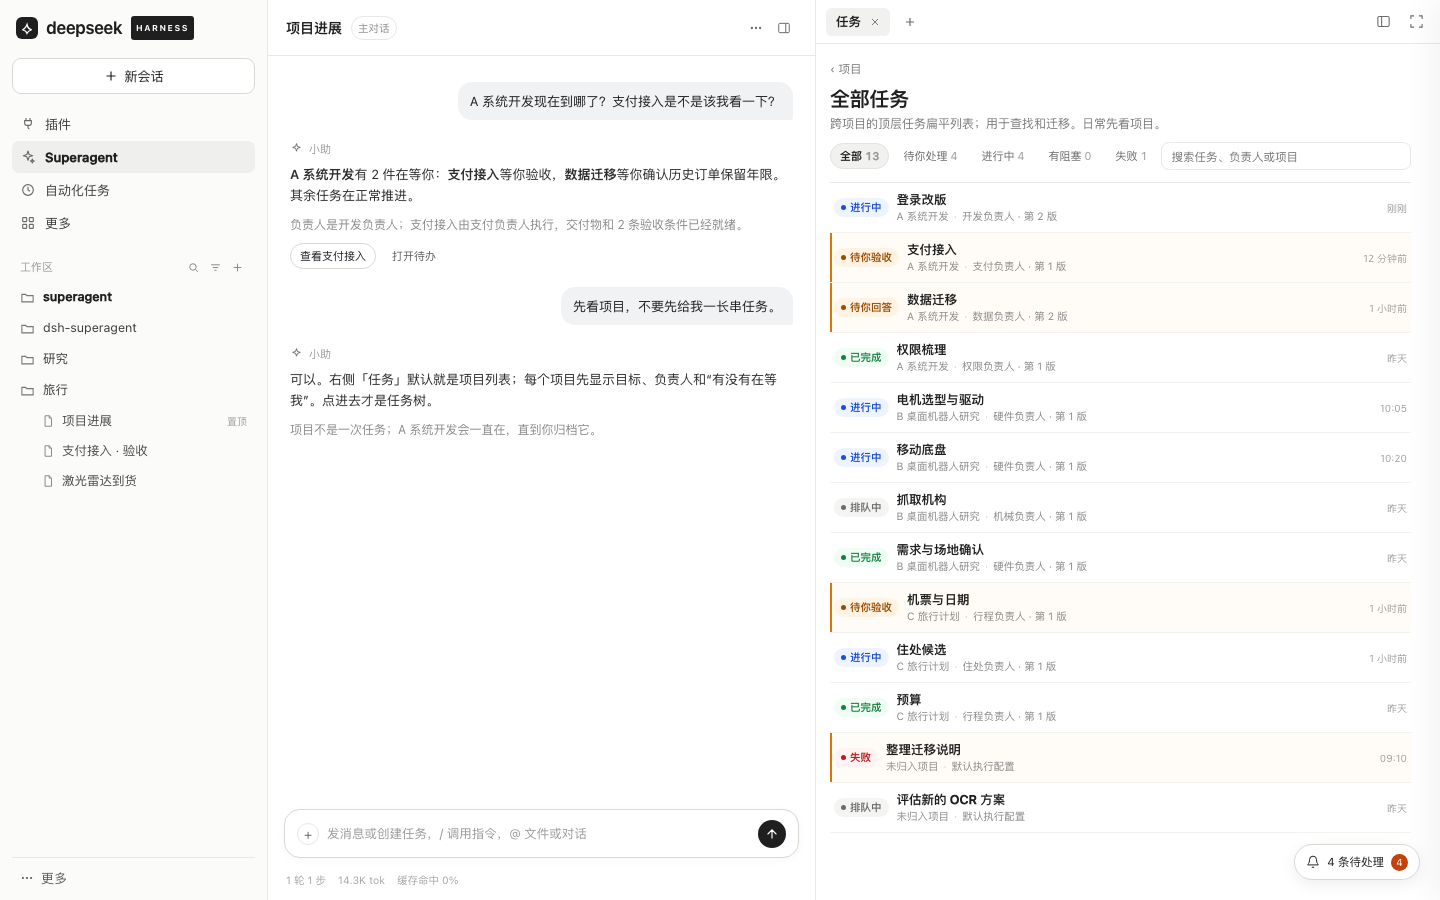
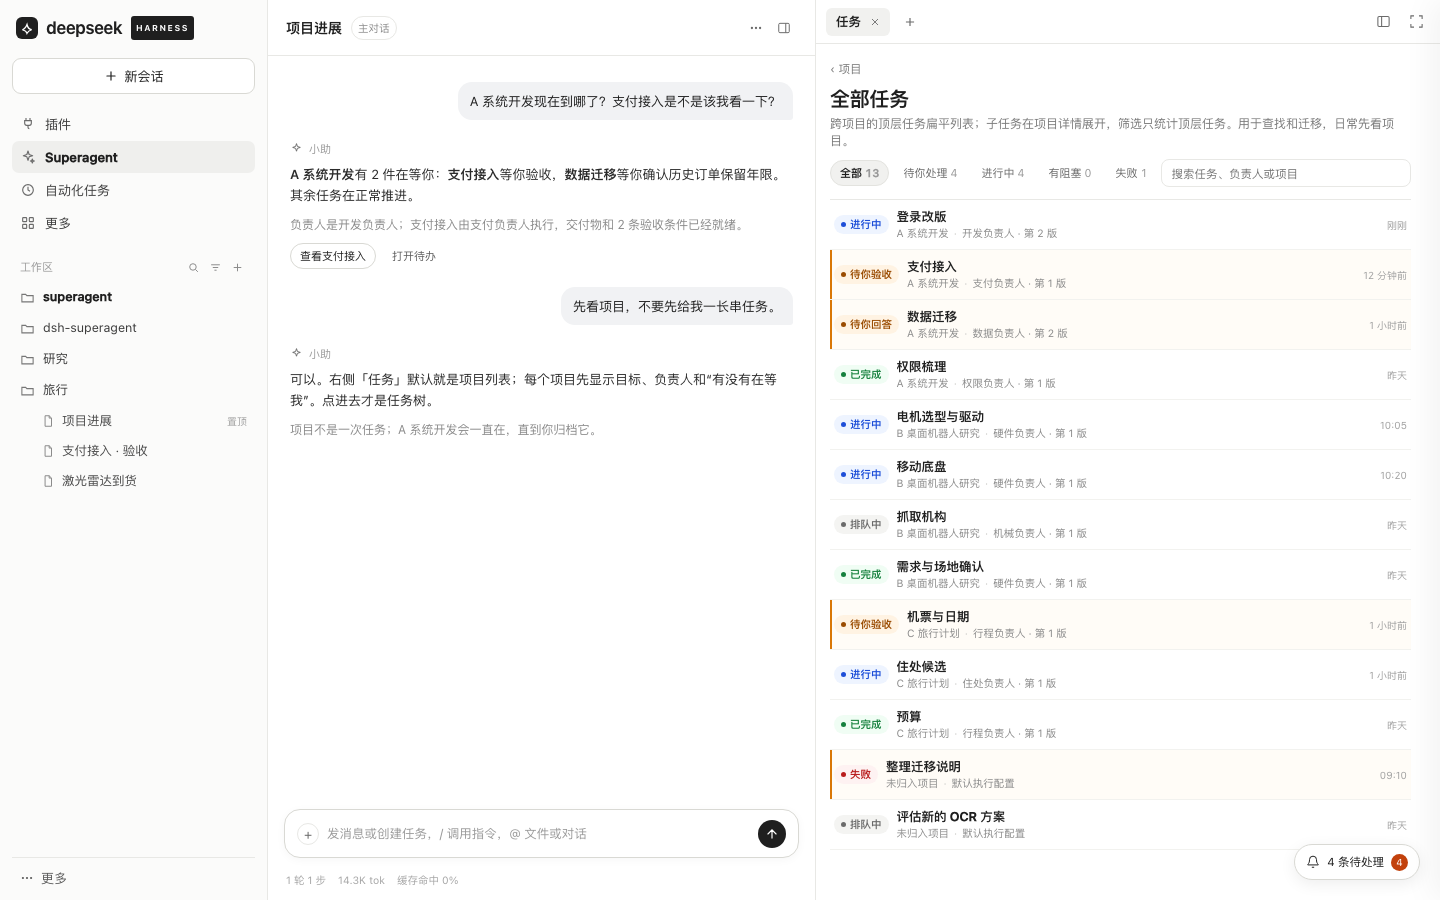
docs(ui): scope all-tasks filters to top-level tasks
Make the all-tasks subtitle say filters cover top-level tasks only, so B's child blocker is not read as a missing filter result; keep the archived project origin through task-detail back.

Changed region(s): [[0.5625, 0.1244, 0.9688, 0.9333], [0.9375, 0.28, 0.9688, 0.3111]]

diff --git a/docs/prototypes/task-projects.html b/docs/prototypes/task-projects.html
@@ -1151,7 +1151,7 @@ function allView() {
   const list = filterRoots()
   return `<button class="detail-back" type="button" data-go="projects">‹ 项目</button>
   <h1 class="page-title">全部任务</h1>
-  <p class="page-sub">跨项目的顶层任务扁平列表；用于查找和迁移。日常先看项目。</p>
+  <p class="page-sub">跨项目的顶层任务扁平列表；子任务在项目详情展开，筛选只统计顶层任务。用于查找和迁移，日常先看项目。</p>
   <div class="filters">
     ${FILTERS.map(([key, label]) => `<button class="filter" type="button" data-filter="${key}" aria-pressed="${state.filter === key}">${label}<span class="n">${counts[key]}</span></button>`).join('')}
     <span class="search-wrap"><input class="search" id="task-search" type="search" placeholder="搜索任务、负责人或项目" value="${esc(state.query)}"></span>
@@ -1191,7 +1191,7 @@ function taskBack(t) {
   if (state.taskFrom === 'notices') return `<button class="detail-back" type="button" data-go="notices">‹ 待你处理</button>`
   if (state.taskFrom === 'projects') return `<button class="detail-back" type="button" data-go="projects">‹ 项目</button>`
   if (state.taskFrom === 'unassigned' || !t.projectId) return `<button class="detail-back" type="button" data-go="unassigned">‹ 未归入项目</button>`
-  return `<button class="detail-back" type="button" data-go="project" data-project="${t.projectId}">‹ ${esc(projectName(t.projectId))}</button>`
+  return `<button class="detail-back" type="button" data-go="project" data-project="${t.projectId}" data-project-from="${state.projectFrom}">‹ ${esc(projectName(t.projectId))}</button>`
 }
 
 function decisionFor(t) {
@@ -1759,7 +1759,7 @@ document.addEventListener('click', event => {
     return
   }
   if (el.dataset.go === 'notices') { event.preventDefault(); openDrawer(); return }
-  if (el.dataset.go === 'project') { event.preventDefault(); openProject(el.dataset.project); return }
+  if (el.dataset.go === 'project') { event.preventDefault(); openProject(el.dataset.project, el.dataset.projectFrom || 'projects'); return }
   if (el.dataset.go) { event.preventDefault(); navigate(el.dataset.go); return }
 })
 

diff --git a/docs/029-project-task-view.zh.md b/docs/029-project-task-view.zh.md
@@ -216,7 +216,7 @@
 - **主 Agent 大卡**不再占项目列表首屏；侧栏里主对话就在旁边，宽面板保留 `返回主对话`。换头像/主 Agent 设置仍在主对话/设置，不搬进任务页。
 - **顶部 `通知 / 文件 / 设置` tab** 不再出现在项目页；它们仍是主对话/插件页的入口，项目页只负责任务视图，不复制全局导航。通知中心按 §4.6 保留。
 - **入门说明卡**可保留为一次性提示，不占列表首屏；当前截图里的“知道了”卡不再默认出现。
-- **列表 / 任务树 / 计划树 / 图切换**不再作为项目页首屏；项目树表达层级，`全部任务`保留扁平查找。计划树/图如果仍需要，作为 `全部任务` 的次级入口，由实现确认；本单原型只画列表。
+- **列表 / 任务树 / 计划树 / 图切换**不再作为项目页首屏；项目树表达层级，`全部任务`保留**顶层**扁平查找；子任务在项目详情展开，筛选只统计顶层任务。计划树/图如果仍需要，作为 `全部任务` 的次级入口，由实现确认；本单原型只画列表。
 - **生成时间/刷新**不帮助“哪个项目在等我”的判断，移到 `全部任务` 或设置。
 - 这些是设计取舍，不是已实现；如果产品要求保留主 Agent 卡，可以放在页头下方折叠，而不是回到列表首屏。
 
